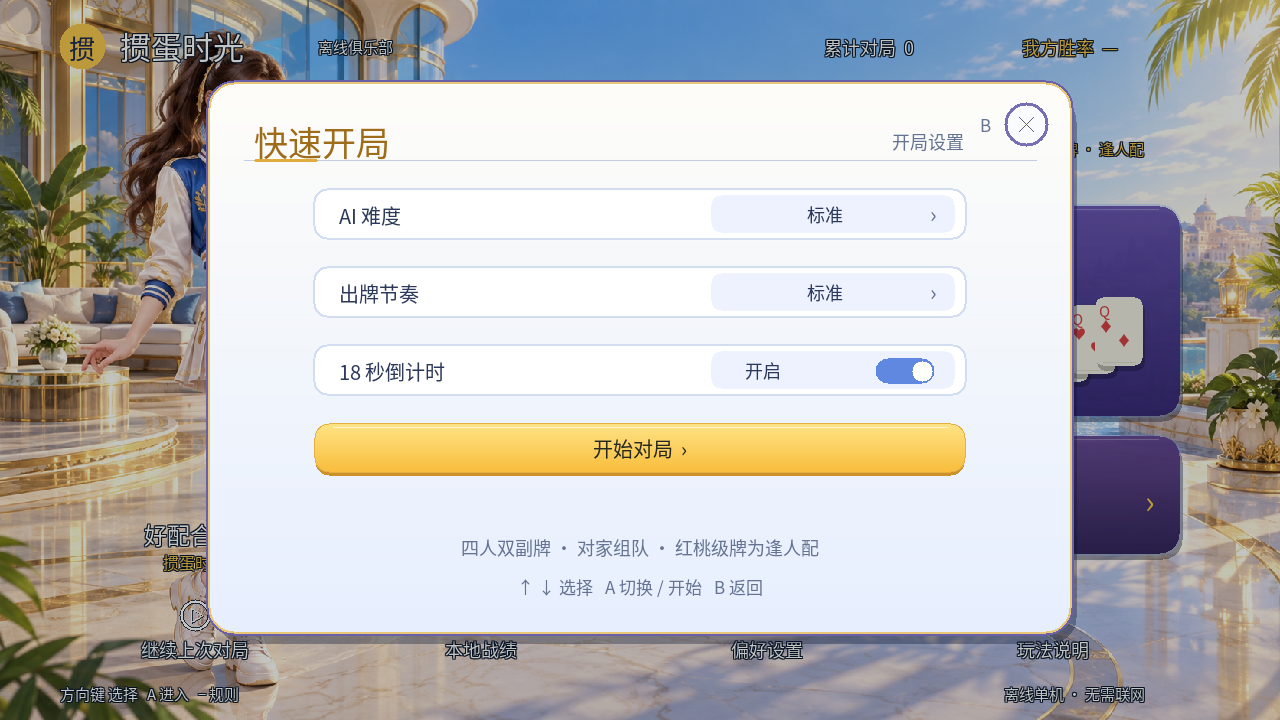
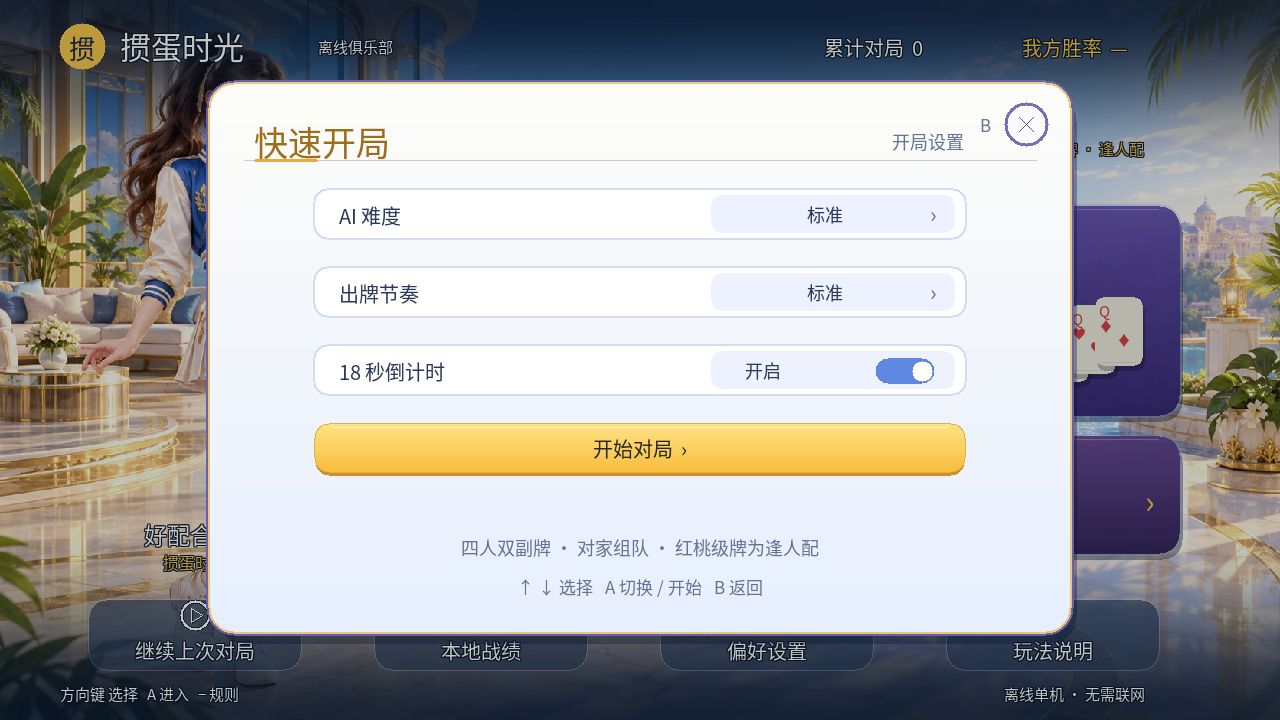
Improve lobby contrast and add verified Switch v0.4 release pipeline

Changed region(s): [[0.0, 0.7944, 1.0, 1.0], [0.0, 0.0, 1.0, 0.2139]]

diff --git a/source/main.cpp b/source/main.cpp
@@ -173,9 +173,15 @@ void drawFx(Uint32 now){
 void clearFx(Uint32 now){fxList.erase(std::remove_if(fxList.begin(),fxList.end(),[&](Fx&f){return now-f.t0>Uint32(f.dur);}),fxList.end());}
 // ---------------- screens ----------------
 // The lobby is drawn natively so labels remain crisp on handheld and TV output.
+void lobbyScrim(){
+ // Smooth alpha ramps protect edge controls while leaving the central scene clear.
+ for(int y=0;y<190;y++){float t=y/189.0f;float fade=1-t*t*(3-2*t);rect(0,y,W,1,{8,22,46,Uint8(224*fade)});}
+ for(int y=535;y<H;y++){float t=(y-535)/184.0f;float fade=t*t*(3-2*t);rect(0,y,W,1,{8,22,46,Uint8(222*fade)});}
+}
 void bgHome(){
  if(bgTex[2]){SDL_Rect d{0,0,W,H};SDL_RenderCopy(ren,bgTex[2],nullptr,&d);}
  else{vgrad(0,0,W,H,{39,63,125},{14,19,53});for(int i=0;i<9;i++){int y=130+i*58;line(0,y,1280,y-180,{137,174,255,13});}}
+ lobbyScrim();
 }
 void bgTable(){
  if(bgTex[1]){SDL_Rect dst{0,0,W,H};SDL_RenderCopy(ren,bgTex[1],nullptr,&dst);}
@@ -221,7 +227,9 @@ void navIcon(int type,int x,int y,Col c){
 void homeButtons(){
  const char*labels[]={"继续上次对局","本地战绩","偏好设置","玩法说明"};
  for(int i=0;i<4;i++){auto a=navAreas[i];bool active=!modal&&focus==i+4,enabled=i!=0||hasSave;Col c=active?GOLD:enabled?WHITE:Col{209,218,228};
-  navIcon(i,a.x+a.w/2,a.y+15,c);floatingText(i==0&&!hasSave?"暂无进行中对局":labels[i],a.x+a.w/2,a.y+36,18,c,true);
+  box(a.x+28,a.y-1,a.w-56,72,18,active?GOLD:Col{207,224,255,65});
+  box(a.x+29,a.y,a.w-58,70,17,active?Col{29,58,97,200}:Col{9,27,53,135});
+  navIcon(i,a.x+a.w/2,a.y+15,c);floatingText(i==0&&!hasSave?"暂无进行中对局":labels[i],a.x+a.w/2,a.y+35,20,c,true);
   if(active){hline(a.x+a.w/2-58,a.y+65,116,GOLD);hline(a.x+a.w/2-58,a.y+66,116,GOLD);}
  }
  floatingText("方向键 选择   A 进入   − 规则",60,682,15);floatingText("离线单机 · 无需联网",1004,682,15);
@@ -229,7 +237,7 @@ void homeButtons(){
 void home(){
  bgHome();circle(82,46,23,GOLD);text("掼",82,28,26,{32,43,82},true);floatingText("掼蛋时光",120,23,31);
  floatingText("离线俱乐部",355,35,15,WHITE,true);
- floatingText("累计对局  "+std::to_string(total),824,34,18);floatingText("我方胜率  "+(total?std::to_string(wins*100/total)+"%":"—"),1022,34,18,GOLD);
+ floatingText("累计对局  "+std::to_string(total),824,32,20);floatingText("我方胜率  "+(total?std::to_string(wins*100/total)+"%":"—"),1022,32,20,GOLD);
  floatingText("好牌好搭档，随时开一桌",484,127,27);floatingText("双副牌 · 逢人配",1088,137,15,GOLD,true);
  if(bgTex[2]){floatingText("好配合，就是好手气",247,517,23,WHITE,true);floatingText("掼蛋时光 · 离线俱乐部",247,550,16,GOLD,true);}
  else{box(60,206,374,348,24,{13,27,66,180});if(avTex[0]){SDL_Rect d{160,258,174,174};SDL_RenderCopy(ren,avTex[0],nullptr,&d);}text("好配合，就是好手气",247,450,26,WHITE,true);text("经典升级 · 默契搭档 · 从 2 打到 A",247,494,17,{171,194,235},true);}

diff --git a/tools/package_release.py b/tools/package_release.py
@@ -1,0 +1,42 @@
+#!/usr/bin/env python3
+"""Bundle the newly compiled NRO and source; never copy the old root NSP."""
+from pathlib import Path
+import hashlib
+import shutil
+import subprocess
+import zipfile
+ROOT = Path(__file__).resolve().parents[1]
+DIST = ROOT/'dist'
+PACKAGE = DIST/'GuandanSwitch-v0.4'
+PACKAGE.mkdir(exist_ok=True)
+shutil.copy2(DIST/'GuandanSwitch.nro', PACKAGE/'GuandanSwitch.nro')
+notes = (ROOT/'release/notes-v0.4.md').read_text()
+if (DIST/'GuandanTime.nsp').exists():
+    shutil.copy2(DIST/'GuandanTime.nsp', PACKAGE/'GuandanTime.nsp')
+    notes += '\n本次已生成原生单文件 NSP，游戏和资源全部内嵌。\n'
+else:
+    notes += '\n本次附件为新版独立 NRO（全部资源内嵌）和完整源码包。原生单文件 NSP 因缺少 NSP_KEYS 构建输入未生成；仓库根目录旧 NSP 不属于本版。\n'
+(DIST/'RELEASE-NOTES.md').write_text(notes)
+(PACKAGE/'发行说明.md').write_text(notes)
+files = subprocess.check_output(['git', 'ls-files'], cwd=ROOT, text=True).splitlines()
+for name in files:
+    if name.startswith(('release/GuandanSwitch-', 'release/manifest.json')) or name == 'GuandanTime.nsp':
+        continue
+    src = ROOT/name
+    if src.is_file():
+        out = PACKAGE/'source-project'/name
+        out.parent.mkdir(parents=True, exist_ok=True)
+        shutil.copy2(src, out)
+font = PACKAGE/'source-project/romfs/font.otf'
+font.parent.mkdir(parents=True, exist_ok=True)
+shutil.copy2(ROOT/'romfs/font.otf', font)
+subprocess.run(['git','rev-parse','HEAD'], cwd=ROOT, check=True, stdout=(PACKAGE/'SOURCE-COMMIT.txt').open('w'))
+archive = DIST/'GuandanSwitch-v0.4.zip'
+with zipfile.ZipFile(archive, 'w', zipfile.ZIP_DEFLATED) as z:
+    for p in sorted(PACKAGE.rglob('*')):
+        if p.is_file(): z.write(p, p.relative_to(DIST))
+with zipfile.ZipFile(archive) as z: assert z.testzip() is None
+assets = [archive, DIST/'GuandanSwitch.nro']
+if (DIST/'GuandanTime.nsp').exists(): assets.append(DIST/'GuandanTime.nsp')
+(DIST/'SHA256SUMS.txt').write_text(''.join(f'{hashlib.sha256(p.read_bytes()).hexdigest()}  {p.name}\n' for p in assets))
+print((DIST/'SHA256SUMS.txt').read_text())

diff --git a/tools/verify_nro.py b/tools/verify_nro.py
@@ -1,0 +1,37 @@
+#!/usr/bin/env python3
+"""Reject stale/non-native release files and verify embedded NRO asset bounds."""
+from pathlib import Path
+import hashlib
+import struct
+import sys
+p = Path(sys.argv[1])
+b = p.read_bytes()
+assert b[0x10:0x14] == b'NRO0', 'Not an NRO'
+size = struct.unpack_from('<I', b, 0x18)[0]
+assert 0x80 < size < len(b) and b[size:size+4] == b'ASET', 'Missing embedded assets'
+for offset in (size+8, size+24, size+40):
+    start, length = struct.unpack_from('<QQ', b, offset)
+    assert length > 0 and size+start+length <= len(b), 'Invalid embedded asset bounds'
+romfs_offset, romfs_size = struct.unpack_from('<QQ', b, size+40)
+r = memoryview(b)[size+romfs_offset:size+romfs_offset+romfs_size]
+assert len(r) >= 80
+file_meta, file_meta_size, file_data = struct.unpack_from('<QQQ', r, 0x38)
+assert file_meta+file_meta_size <= len(r) and file_data <= len(r)
+entries = {}
+entry = 0
+while entry < file_meta_size:
+    pos = file_meta+entry
+    data_offset, data_size, _, name_len = struct.unpack_from('<QQII', r, pos+8)
+    assert 0 < name_len <= 255 and pos+32+name_len <= file_meta+file_meta_size
+    name = bytes(r[pos+32:pos+32+name_len]).decode('utf-8')
+    assert file_data+data_offset+data_size <= len(r)
+    entries[name] = r[file_data+data_offset:file_data+data_offset+data_size]
+    entry += 32+((name_len+3)//4)*4
+for name in ('lobby-seaside.png', 'characters.png', 'font.otf'):
+    assert name in entries, f'Missing embedded resource: {name}'
+    assert hashlib.sha256(entries[name]).digest() == hashlib.sha256((Path('romfs')/name).read_bytes()).digest(), f'Stale embedded asset: {name}'
+elf = Path('GuandanSwitch.elf').read_bytes()
+assert elf[:4] == b'\x7fELF' and struct.unpack_from('<H',elf,18)[0] == 183, 'Not an AArch64 ELF'
+assert b'sdmc:/switch/GuandanSwitch/' in b, 'Missing application data directory'
+print('PASS: NRO0, embedded icon/NACP/RomFS bounds, current visual assets, data directory')
+print('SHA256:', hashlib.sha256(b).hexdigest())

diff --git a/README.md b/README.md
@@ -1,10 +1,13 @@
 # 掼蛋时光 · Switch 原生单机版
 
-当前源码：大厅与对局体验升级（v0.4 开发版）。本轮已通过桌面构建与自动测试，仓库根目录 NSP 和下方下载仍是 **v0.3 旧版**；新版 Switch 交叉编译、单文件 NSP 打包和真机验证尚未完成。
+当前版本：**v0.4 测试版**。新版全屏界面、渐变蒙版、菜单弹窗及对局功能从当前源码重新编译，经过自动检查后由 GitHub Actions 发布。尚未进行实体 Switch 验证。
+
+[下载 v0.4 完整发行包](https://github.com/zqzhuhai-commits/guandan-switch/releases/download/v0.4.0/GuandanSwitch-v0.4.zip) · [下载独立 NRO](https://github.com/zqzhuhai-commits/guandan-switch/releases/download/v0.4.0/GuandanSwitch.nro) · [SHA-256 校验值](https://github.com/zqzhuhai-commits/guandan-switch/releases/download/v0.4.0/SHA256SUMS.txt)
+
+独立 NRO 内嵌字体、背景和角色，无需另拷资源。原生 NSP 仅在发布工作流配置 `NSP_KEYS` 构建输入时生成；是否附带请以 [v0.4 Release 附件](https://github.com/zqzhuhai-commits/guandan-switch/releases/tag/v0.4.0) 为准。仓库根目录 `GuandanTime.nsp` 是历史文件，**不代表本次新版**。
 
 参考腾讯《大掼蛋》的休闲棋牌氛围，独立编写规则、AI 和界面；不含腾讯的程序、美术、角色、音频或账号服务。游戏完全离线，无内购、无联网、无真钱交易。
 
-[下载 v0.3 完整发行包](https://github.com/zqzhuhai-commits/guandan-switch/releases/download/v0.3.0/GuandanSwitch-v0.3.zip) · [下载单文件 NSP](https://github.com/zqzhuhai-commits/guandan-switch/releases/download/v0.3.0/GuandanTime.nsp)
 
 ![大厅预览](preview/home.png)
 
@@ -14,11 +17,12 @@
 
 ![复盘报告预览](preview/review.png)
 
-## 本轮更新（源码）
+## v0.4 更新
 
 参考用户提供的欢乐斗地主 / 大掼蛋界面，重新组织离线功能：
 
 - 全屏海滨露台大厅（用户提供背景，所有界面取消整条页眉/页脚色块，采用悬浮文字和局部按钮）、蓝紫金玩法卡片、本地战绩信息与统一底栏；四家角色使用用户提供的透明肖像图集，运行时读取各角色，不改动原始图集。
+- 大厅顶部与底部采用平滑渐变蒙版；四个导航入口增加半透明圆角底和更大文字，改善明亮背景上的对比度。
 - 四种玩法进入前支持配置 AI 难度、出牌节奏和倒计时；A 默认直接开始，方向键可调整选项。
 - 连按 Y 在合法出牌方案间切换，首项保留 AI 推荐（包括建议给队友让牌）；选中手牌实时显示牌型，非法出牌按钮置灰。
 - ZL 打开带实际牌面的分页出牌记录，含“不出”记录；左右键或触屏按钮翻页。记录和复盘数据随牌局保存。
@@ -32,13 +36,15 @@
 
 ![分页出牌记录](preview/history.png)
 
-## 安装 v0.3（单文件 NSP，无需 NRO）
+## 安装 v0.4
 
-1. 将 `GuandanTime.nsp` 通过 DBI / Tinfoil 等安装器安装（需支持 homebrew 的 CFW 系统）。
-2. 主屏会出现“掼蛋时光”图标，点击直接进入游戏。
-3. 游戏本体、中文字体和四家角色头像全部内嵌在 NSP 中，**无需任何外置 NRO 文件**。
+1. 下载 Release 中的 `GuandanSwitch.nro`，或解压完整发行包。
+2. 将 NRO 放到 SD 卡 `switch/GuandanSwitch/GuandanSwitch.nro`。
+3. 在支持 homebrew 的 CFW 系统中，以 hbmenu 应用模式运行（避免相册小内存模式）。字体、背景和角色已全部内嵌。
 
-存档和设置写入 NSP 所在账户的存档目录（`session.dat`、`profile.txt`）。这是 homebrew 程序：需要安装器与 CFW，普通未配置 homebrew 的原厂系统无法运行。当前已完成交叉编译、桌面画面检查和自动测试，尚未经过实体 Switch 验证；不将这些检查等同于真机兼容性验证。
+若 Release 附有本次编译的 `GuandanTime.nsp`，可通过兼容的 homebrew 安装器安装；该形态本体与资源全部内嵌，无需外置 NRO。未附 NSP 时，请使用本版 NRO，不要将历史 NSP 当作 v0.4 安装。
+
+存档与设置实际保存在 SD 卡 `switch/GuandanSwitch/session.dat`、`profile.txt`。新 GD5 存档可保存出牌记录与复盘数据，兼容读取 GD3/GD4，但旧版程序不能读取 GD5。普通原厂系统无法运行本 homebrew 程序；尚未经过实体 Switch 启动、触屏、音频和休眠恢复验证。
 
 ## 四种模式
 
@@ -106,12 +112,12 @@
 
 ## 当前验证与限制
 
-- `tests/rules.cpp` 覆盖牌型、双副牌花色、配牌、四王与十张炸弹比较、非法操作、接风、存档恢复和连续进贡升级流程。
-- 四种模式共 256 局自动对局完成；具体输出见 `验证报告.txt`。
-- 桌面运行同一份 SDL2 界面，检查大厅、牌桌、明牌模式、设置、规则、表情、结算和复盘报告弹窗；`preview` 目录为程序实际渲染（1280×720），不是真机截图。
-- 原生单文件 NSP（NSO + romfs 内嵌游戏、中文字体与四家角色头像）已按社区标准结构生成并逐层校验（PFS0 → Program/Control/Meta NCA，标题 `掼蛋时光`、titleId `010000abcd000000`、图标一致），**不再依赖任何外置 NRO**。实体机上的启动、音频、触屏、休眠恢复和实际性能仍待验证。
-- 进阶 AI 使用规则启发式策略，不是经过竞技训练的职业水平 AI。没有联网对战、本地多人、3D 角色、语音播报、背景音乐或残局编辑器。
-- 当前源码的出牌记录和复盘数据会随牌局保存；v0.3 发行版不包含此更新。
+- 规则测试覆盖牌型、双副牌、配牌、四王与十张炸弹、非法操作、接风、存档兼容、连续进贡升级；四种模式合计 256 局自动对局。
+- 同源 SDL2 桌面界面完成构建与真实操作处理函数测试，覆盖模式设置、提示轮换、暂停计时、触屏及结算导航；`preview/` 为程序实际渲染的 12 个界面，不是真机截图。
+- Switch 发行文件由固定 devkitPro 工具链从当前源码编译，校验 AArch64、NRO0、内嵌资源边界及新素材内容，附 SHA-256 清单。NSP 只在构建输入齐全时生成并校验；历史 NSP 不冒充本版。
+- 未进行实体 Switch 启动、安装、音频、触屏、休眠恢复和性能验证。本版作为预发布提供。
+- 进阶 AI 是规则启发式策略；复盘展示牌力和余牌统计，不声称竞技 AI 评估。没有联网对战、本地多人、语音播报或残局编辑器。
+- 出牌记录与复盘数据随当前牌局保存，下一局开始后重新记录；本地战绩和偏好单独保存。
 
 ## 源码与构建
 
@@ -119,7 +125,7 @@
 
 为兼容上传接口，完整发行包保存在 `release/*.partNN`，各片的校验值在 `release/manifest.json`。克隆后先执行 `python3 tools/restore_assets.py`，自动校验并还原完整 ZIP、内置字体和单文件 NSP；不需要联网下载字体。
 
-Switch 构建依赖 devkitPro 的 devkitA64、libnx、switch-sdl2、switch-sdl2_ttf、FreeType、HarfBuzz、zlib、libpng、bzip2。设置 `DEVKITPRO`、`DEVKITA64`，把 `portlibs/switch/bin` 和 `tools/bin` 加入 PATH 后，在工程目录执行 `make -j2`。
+Switch 构建依赖 devkitPro 的 devkitA64、libnx、switch-sdl2、switch-sdl2_ttf、FreeType、HarfBuzz、zlib、libpng、bzip2。设置 `DEVKITPRO`、`DEVKITA64`，把 `portlibs/switch/bin` 和 `tools/bin` 加入 PATH 后，在工程目录执行 `make APP_JSON= APP_VERSION=0.4.0 -j2` 生成独立 NRO。
 
 本次使用的开发环境镜像为：
 `devkitpro/devkita64@sha256:82575ea78651b530b2e232bb3799cfd1fe331514e053d5f724bb4b28191fb79d`
@@ -128,6 +134,12 @@ Switch 构建依赖 devkitPro 的 devkitA64、libnx、switch-sdl2、switch-sdl2_
 
 桌面实际界面截图：安装 Pillow 后执行 `python3 tools/capture_previews.py`；脚本使用独立临时存档和固定发牌种子，不覆盖玩家存档。可通过 `--data-dir <目录>` 指定桌面存档目录。GitHub Actions 的 `Verify game and desktop UI` 会自动构建、测试并上传界面截图。
 
-原生单文件 NSP 由 devkitPro 工具链产出 `GuandanSwitch.nso`（含内嵌 romfs 的 ExeFS 主程序）与 `main.npdm`，配合 `nacptool` 生成的 `control.nacp`、鎏金图标、Nintendo 启动 Logo，经 hacbrewpack 打包为单文件 NSP（PFS0 → Program/Control/Meta 三个 NCA），构建与校验过程见 `验证报告.txt`。游戏本体、字体与角色头像全部内嵌，无任何外置 NRO。
+原生 NSP 的可选构建由 `tools/packaging/build_nsp.mjs` 完成：使用本次编译的 NSO、NPDM、NACP 和当前 RomFS，核对 NCA 内容散列及内嵌资源；需要调用者提供 `NSP_KEYS`，详见下面的可复现发布说明。
 
 原创代码按 MIT License 提供；第三方库与字体遵循各自许可，见 `licenses` 与字体目录的许可文件。App 图标采用用户提供的“掼蛋时光”鎏金宣传视觉（蓝色背景、金色立体字、蓝宝石金冠与三张扑克牌），缩放为 256×256 后内嵌于 NSP，不与腾讯任何资产共用。
+
+## 可复现发布
+
+`.github/workflows/publish.yml` 先运行规则及桌面交互检查，再使用固定摘要的 devkitPro 镜像交叉编译当前源码；校验 NRO0、内嵌资源和文件边界，生成完整 ZIP 与 SHA-256 校验清单。主分支检查成功后创建 v0.4.0 预发布，保留历史 Releases。
+
+如需原生 NSP：将自己用于构建的 keys 内容配置为仓库 Actions secret `NSP_KEYS`，工作流会调用锁定版本的 hacbrewpack，在内存中使用该输入，不将其写入仓库或发行包。没有该输入时仅发布可验证的独立 NRO 和源码包，不复用历史 NSP。

diff --git a/release/notes-v0.4.md b/release/notes-v0.4.md
@@ -1,0 +1,11 @@
+掼蛋时光 v0.4 · 全屏界面与交互升级测试版
+
+- 全屏海滨大厅与四家角色头像，统一浅色 APP 风格弹窗。
+- 顶部/底部渐变蒙版，半透明圆角导航按钮，加大文字，改善明亮背景上的可读性。
+- 开局设置、轮换提示、合法选牌反馈、分页出牌记录与可保存复盘。
+- 修复暂停计时、触屏结算、头像通道和大小王记牌数量。
+- 从本次源码重新交叉编译 Switch 产物；独立 NRO 内嵌字体、背景和角色，无需另拷资源。
+
+NRO 使用：将 GuandanSwitch.nro 复制到 SD 卡 switch/GuandanSwitch/，通过支持 homebrew 的 CFW 和 hbmenu 应用模式启动。存档及设置位于 SD 卡 switch/GuandanSwitch/；GD5 存档不能用旧版程序打开。
+
+已完成自动规则测试、交互测试、桌面预览与 ARM64 构建检查。尚未进行实体 Switch 验证，本版标为预发布。
